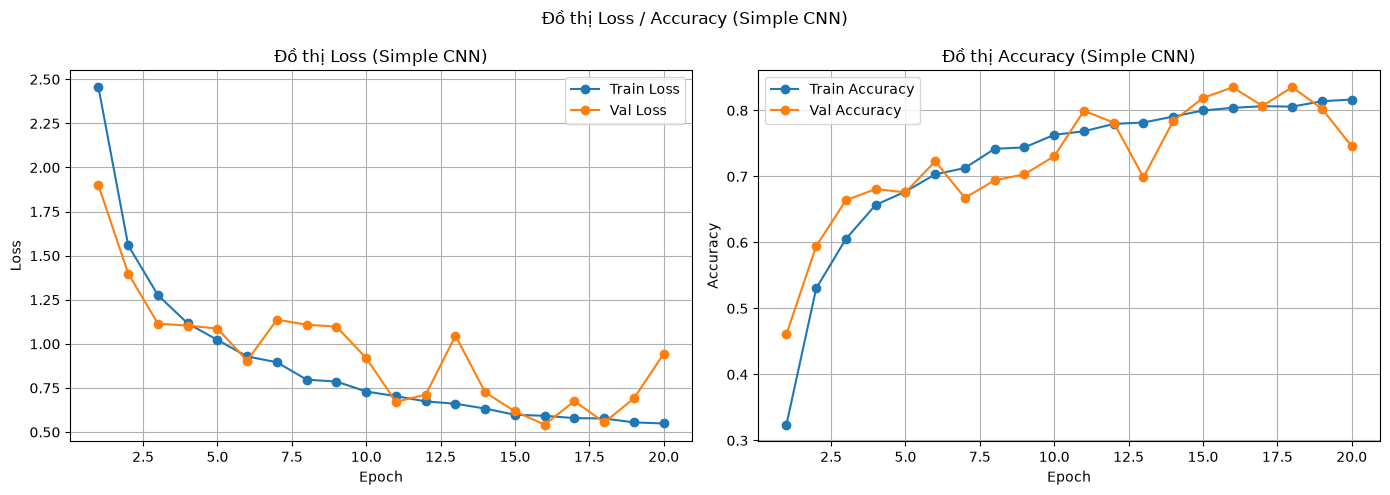
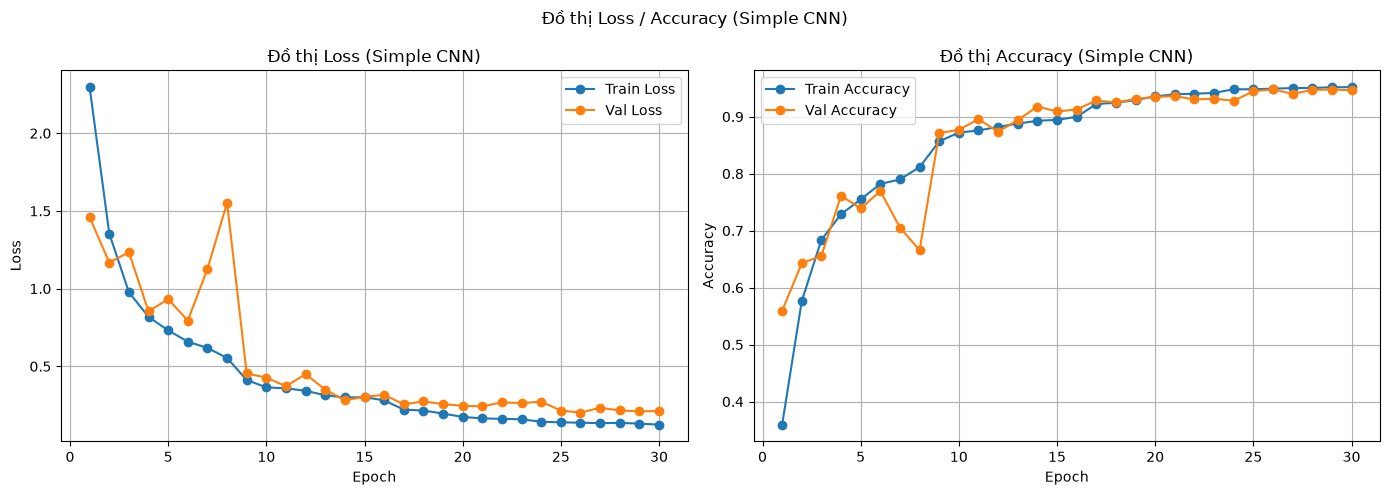
Thành viên B: Simple CNN thêm khối conv thứ 3, giảm learning rate theo val_loss, đọc ảnh song song (test acc 95.03%, macro F1 0.9380)

diff --git a/src/simple_cnn.py b/src/simple_cnn.py
@@ -1,11 +1,6 @@
-"""
-Thành viên B: Simple CNN (Baseline lấy cảm hứng từ LeNet-5) cho PlantVillage (38 lớp).
-
-Chạy từ thư mục gốc của repo:
-    python src/simple_cnn.py                 # train đầy đủ (mặc định 20 epochs)
-    python src/simple_cnn.py --epochs 30
-    python src/simple_cnn.py --smoke-test    # chạy thử nhanh toàn bộ pipeline, file kết quả có hậu tố _smoke
-"""
+# thành viên b: simple cnn (baseline dựa theo lenet-5) cho bộ plantvillage 38 lớp
+# chạy từ thư mục gốc repo, mặc định train 20 epoch
+# thêm --epochs n để đổi số epoch, --smoke-test để chạy thử nhanh (file kq có đuôi _smoke)
 import argparse
 import os
 import random
@@ -13,13 +8,13 @@ import sys
 import time
 
 import matplotlib
-matplotlib.use('Agg')  # Chạy script không cần màn hình (Colab / terminal)
+matplotlib.use('Agg')  # để vẽ đc khi ko có màn hình (colab, terminal)
 import matplotlib.pyplot as plt
 import numpy as np
 import seaborn as sns
 import tensorflow as tf
 from tensorflow.keras import layers, models
-from tensorflow.keras.callbacks import EarlyStopping, ModelCheckpoint
+from tensorflow.keras.callbacks import EarlyStopping, ModelCheckpoint, ReduceLROnPlateau
 from tensorflow.keras.models import load_model
 from tensorflow.keras.optimizers import Adam
 from tensorflow.keras.preprocessing.image import ImageDataGenerator
@@ -27,7 +22,7 @@ from sklearn.metrics import (accuracy_score, classification_report, confusion_ma
                              precision_recall_fscore_support)
 from sklearn.utils.class_weight import compute_class_weight
 
-# 1⃣ Cấu hình chung (giống hệt data_prep.py của Thành viên A)
+# cấu hình chung, để giống y hệt bên data_prep của a
 IMG_SIZE = (224, 224)
 BATCH_SIZE = 32
 SEED = 42
@@ -35,6 +30,7 @@ TRAIN_DIR = 'data/train'
 VAL_DIR = 'data/val'
 TEST_DIR = 'data/test'
 RESULTS_DIR = 'results'
+WORKERS = min(8, os.cpu_count() or 1)  # số luồng đọc + augment ảnh song song, khâu này chậm nhất lúc train
 
 
 def set_seeds(seed=SEED):
@@ -44,7 +40,7 @@ def set_seeds(seed=SEED):
     tf.random.set_seed(seed)
 
 
-# 2⃣ Chuẩn hóa Z-Score (copy từ docstring cuối file src/data_prep.py, Mean/Std tính trên tập Train)
+# chuẩn hóa z-score, copy từ đoạn mẫu cuối file data_prep, mean vs std tính trên tập train
 def z_score_norm(img):
     img = img / 255.0
     mean = np.array([0.46658055, 0.48930454, 0.41043331])
@@ -64,7 +60,7 @@ def check_data_dirs():
 
 
 def build_generators():
-    # Data Augmentation CHỈ cho tập Train
+    # augment chỉ lm cho tập train thôi
     train_datagen = ImageDataGenerator(
         preprocessing_function=z_score_norm,
         rotation_range=20,
@@ -73,7 +69,7 @@ def build_generators():
         horizontal_flip=True,
         zoom_range=0.2
     )
-    # Val/Test chỉ chuẩn hóa Z-score, không augmentation
+    # val vs test chỉ chuẩn hóa z-score, ko augment
     test_val_datagen = ImageDataGenerator(preprocessing_function=z_score_norm)
 
     train_generator = train_datagen.flow_from_directory(
@@ -93,13 +89,16 @@ def build_generators():
         target_size=IMG_SIZE,
         batch_size=BATCH_SIZE,
         class_mode='categorical',
-        shuffle=False  # [QUAN TRỌNG] Tắt shuffle để y_pred khớp thứ tự test_generator.classes
+        shuffle=False  # quan trọng: tắt shuffle để y_pred khớp thứ tự nhãn của tập test
     )
+    # train vs val đọc ảnh song song nhiều luồng, test để 1 luồng cho chắc thứ tự dự đoán ko bị lệch
+    for generator in (train_generator, val_generator):
+        generator.workers = WORKERS
     return train_generator, val_generator, test_generator
 
 
 def compute_class_weight_dict(train_generator):
-    # Class Weights 'balanced' vì dữ liệu mất cân bằng (~36x giữa lớp nhiều nhất và ít nhất)
+    # class weight kiểu balanced vì data lệch nhau tầm 36 lần giữa lớp nhiều nhất vs ít nhất
     train_labels = train_generator.classes
     class_weights_array = compute_class_weight(
         class_weight='balanced',
@@ -109,17 +108,20 @@ def compute_class_weight_dict(train_generator):
     return dict(enumerate(class_weights_array))
 
 
-# 3⃣ Mô hình Simple CNN lấy cảm hứng từ LeNet-5 (KHÔNG BatchNorm, KHÔNG Dropout)
+# mô hình simple cnn dựa theo lenet-5, ko dùng batchnorm vs dropout
 def build_simple_cnn(num_classes):
     model = models.Sequential([
         layers.Input(shape=IMG_SIZE + (3,)),
-        # Block 1: 224x224x3 -> Conv 5x5 -> 220x220x6 -> MaxPool -> 110x110x6
+        # khối 1: 224x224x3 -> conv 5x5 -> 220x220x6 -> maxpool -> 110x110x6
         layers.Conv2D(6, (5, 5), activation='relu'),
         layers.MaxPooling2D((2, 2)),
-        # Block 2: 110x110x6 -> Conv 5x5 -> 106x106x16 -> MaxPool -> 53x53x16
+        # khối 2: 110x110x6 -> conv 5x5 -> 106x106x16 -> maxpool -> 53x53x16
         layers.Conv2D(16, (5, 5), activation='relu'),
         layers.MaxPooling2D((2, 2)),
-        # Phân loại: Flatten (53*53*16 = 44,944) -> Dense 120 -> Dense 84 -> Softmax
+        # khối 3: 53x53x16 -> conv 5x5 -> 49x49x32 -> maxpool -> 24x24x32, vùng nhìn tăng từ 16x16 lên 36x36 pixel
+        layers.Conv2D(32, (5, 5), activation='relu'),
+        layers.MaxPooling2D((2, 2)),
+        # phần phân loại: flatten (24*24*32 = 18432) -> dense 120 -> dense 84 -> softmax
         layers.Flatten(),
         layers.Dense(120, activation='relu'),
         layers.Dense(84, activation='relu'),
@@ -132,7 +134,7 @@ def build_simple_cnn(num_classes):
     return model
 
 
-# 4⃣ Vẽ đồ thị Loss / Accuracy
+# vẽ đồ thị loss vs accuracy theo từng epoch
 def plot_training_curves(history, path):
     epochs_range = range(1, len(history['loss']) + 1)
     fig, (ax_loss, ax_acc) = plt.subplots(1, 2, figsize=(14, 5))
@@ -159,7 +161,7 @@ def plot_training_curves(history, path):
     plt.close(fig)
 
 
-# 5⃣ Vẽ Ma trận nhầm lẫn (Confusion Matrix)
+# vẽ ma trận nhầm lẫn
 def plot_confusion_matrix(cm, class_names, path):
     plt.figure(figsize=(20, 20))
     sns.heatmap(cm, annot=True, fmt='d', cmap='Blues', annot_kws={'size': 7},
@@ -179,7 +181,7 @@ def main():
                         help='Chạy thử nhanh: 5 bước train, 2 bước val, 1 epoch, 2 batch test; file có hậu tố _smoke')
     args = parser.parse_args()
 
-    # In tiếng Việt không lỗi trên console Windows (cp1252)
+    # để in tiếng việt ko bị lỗi trên console windows (cp1252)
     for stream in (sys.stdout, sys.stderr):
         if hasattr(stream, 'reconfigure'):
             stream.reconfigure(encoding='utf-8')
@@ -210,10 +212,12 @@ def main():
 
     callbacks = [
         EarlyStopping(monitor='val_loss', patience=5, restore_best_weights=True),
-        ModelCheckpoint(model_path, monitor='val_loss', save_best_only=True)
+        ModelCheckpoint(model_path, monitor='val_loss', save_best_only=True),
+        # val_loss 2 epoch liền ko giảm thì giảm lr đi một nửa, cho val bớt dao động
+        ReduceLROnPlateau(monitor='val_loss', factor=0.5, patience=2, min_lr=1e-6, verbose=1)
     ]
 
-    # 6⃣ Huấn luyện
+    # train
     start = time.time()
     history = model.fit(
         train_generator,
@@ -228,13 +232,13 @@ def main():
     epochs_trained = len(history.history['loss'])
     best_epoch = int(np.argmin(history.history['val_loss'])) + 1
 
-    # EarlyStopping chỉ khôi phục best weights khi dừng sớm; nạp lại file checkpoint
-    # để mô hình được đánh giá trùng với file .h5 nộp lên Drive (epoch có val_loss thấp nhất)
+    # earlystopping chỉ trả lại trọng số tốt nhất khi dừng sớm nên load lại file checkpoint
+    # để mô hình đem đi đánh giá trùng vs file h5 up lên drive (epoch có val_loss thấp nhất)
     model = load_model(model_path)
 
     plot_training_curves(history.history, curves_path)
 
-    # 7⃣ Đánh giá trên tập Test
+    # đánh giá trên tập test
     test_loss, test_acc = model.evaluate(test_generator, steps=test_steps)
     Y_pred = model.predict(test_generator, steps=test_steps)
     y_pred = np.argmax(Y_pred, axis=1)
@@ -259,6 +263,7 @@ def main():
         f"Weighted Precision / Recall / F1 : {weighted[0]:.4f} / {weighted[1]:.4f} / {weighted[2]:.4f}\n"
         f"Tổng số tham số (params)  : {total_params:,}\n"
         f"Số epoch đã train         : {epochs_trained} (best epoch theo val_loss: {best_epoch})\n"
+        f"Learning rate theo epoch  : {', '.join(f'{lr:g}' for lr in history.history.get('learning_rate', []))}\n"
         f"Thời gian train           : {training_time:.1f} giây ({training_time / 60:.1f} phút)\n"
         f"File mô hình              : {model_path}\n"
     )
